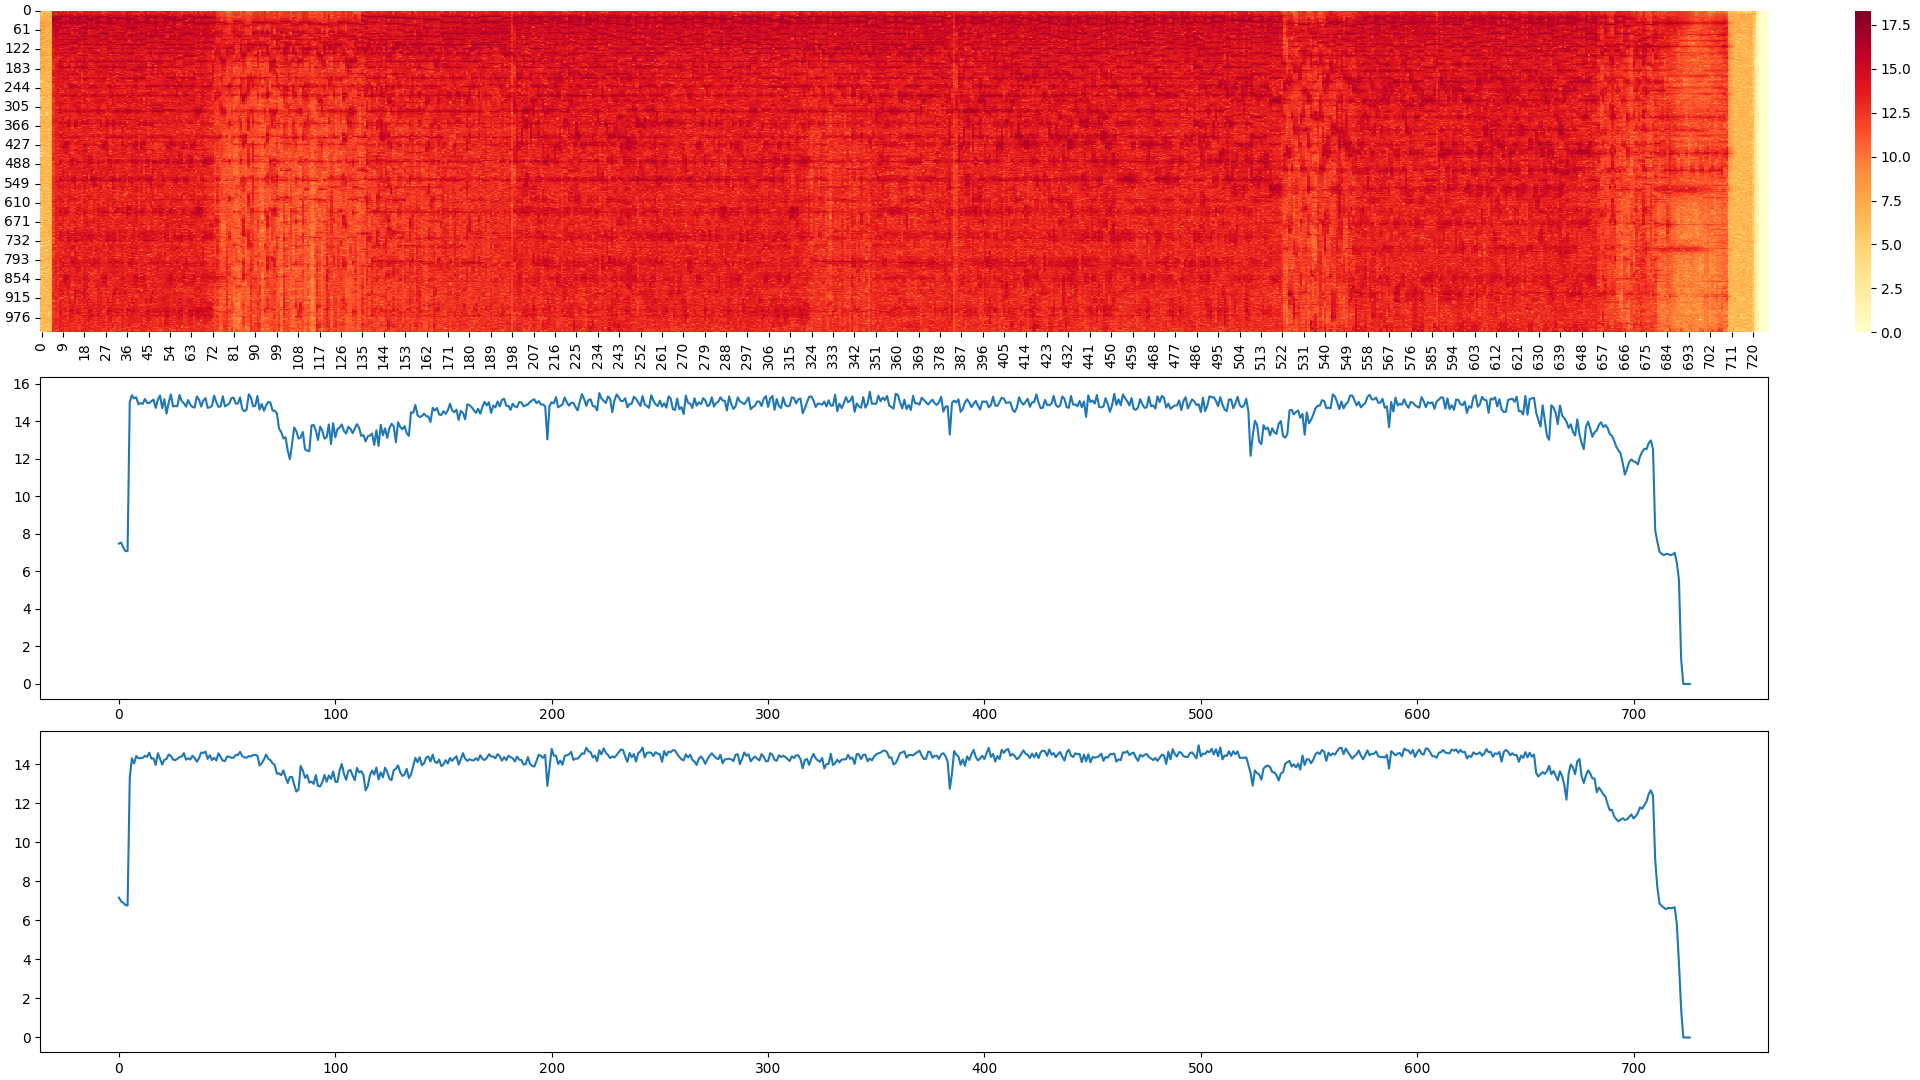
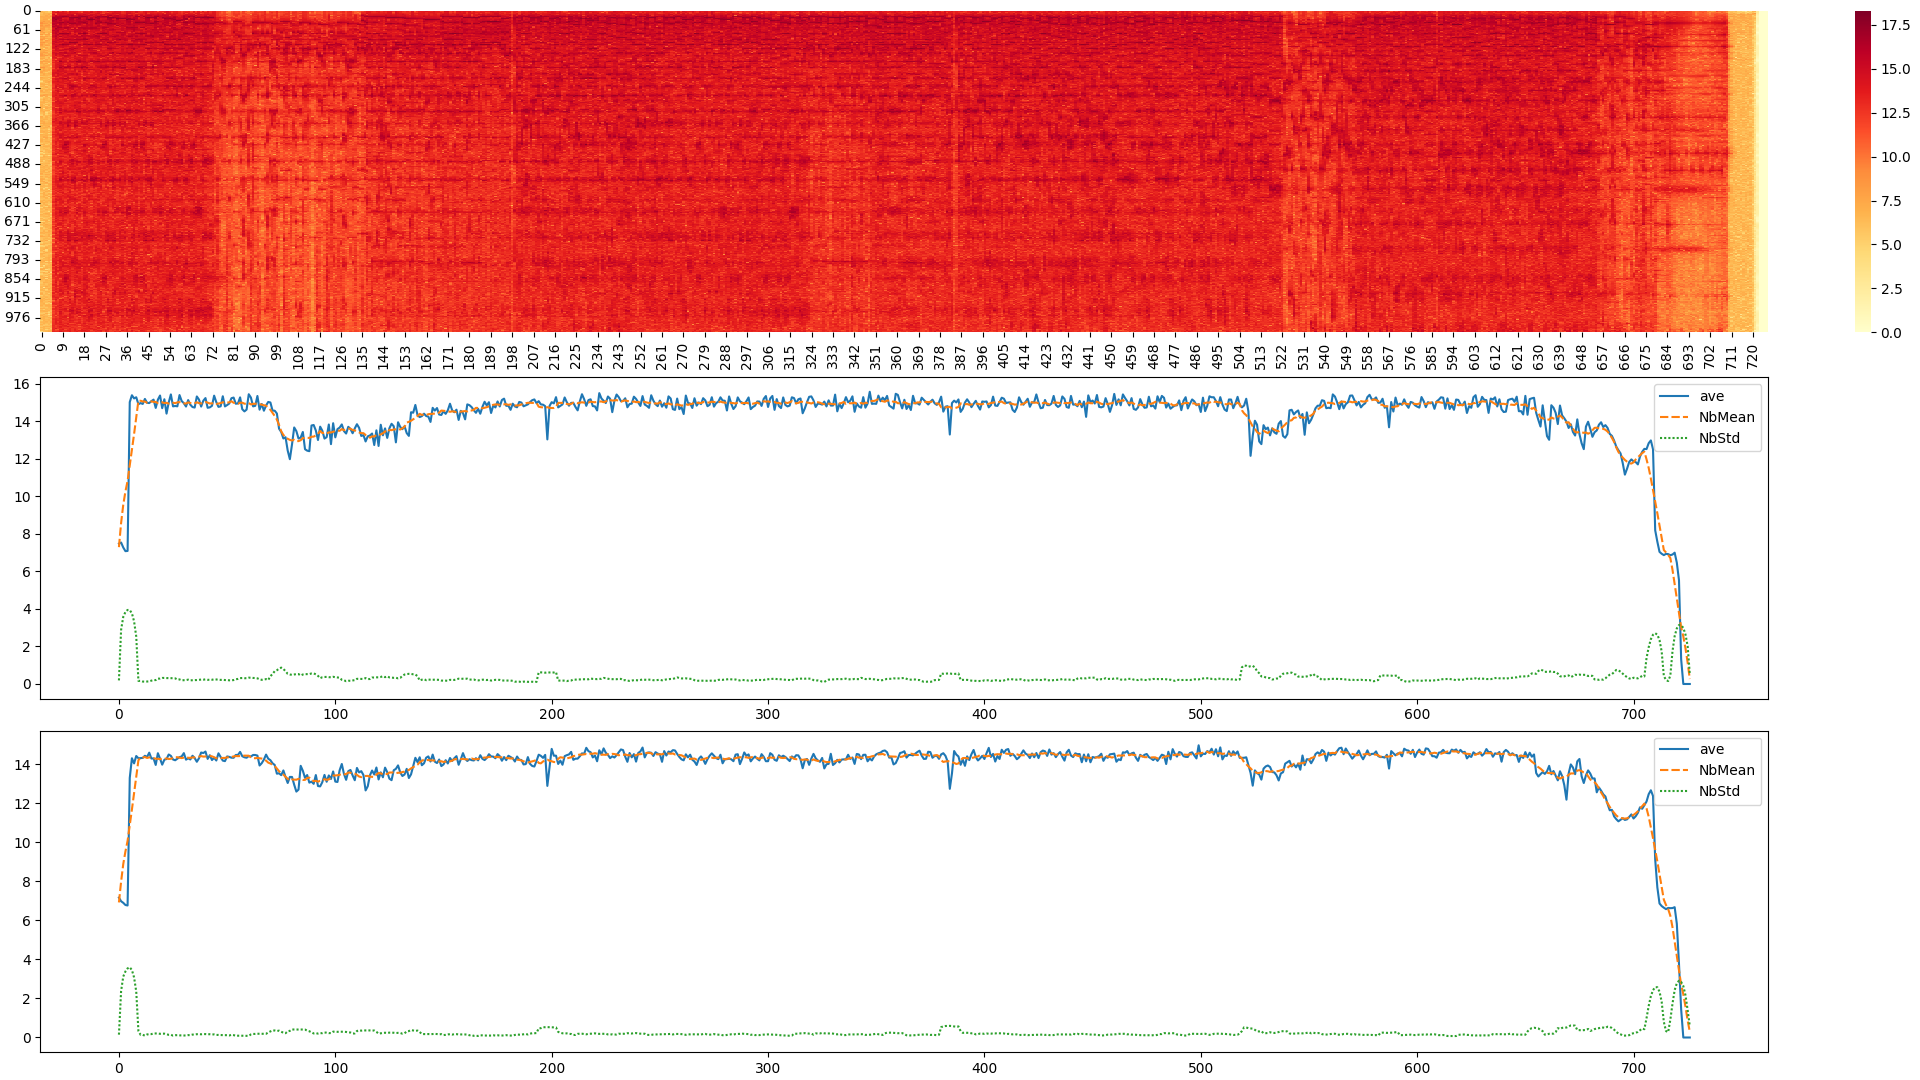
+PCA.py

Changed region(s): [[0.875, 0.6722, 0.9062, 0.7333], [0.875, 0.3667, 0.9062, 0.4278]]

diff --git a/Tools/HeatMap.py b/Tools/HeatMap.py
@@ -7,6 +7,7 @@ if len(sys.argv) != 3:
 
 # import process is very slow
 import numpy as np
+import pandas as pd
 import seaborn as sns
 import matplotlib.pyplot as plt
 
@@ -25,7 +26,8 @@ for line in open(fileName):
 df = np.log(np.array(df) + 1)
 
 # music part
-parts = [0, 73, 146, 292, 584, 1024]
+PARTS = [0, 73, 146, 292, 584, 1024]
+WIDTH = 4 
 
 print(df)
 # set picture size
@@ -45,19 +47,62 @@ sns.heatmap(df.T, cmap="YlOrRd", ax=ax[0])
 # ave = np.array(ave)
 # sns.lineplot(ave, ax=ax[1])
 
-# output the Low Freq ave map
-ave = []
-for i in range(df.shape[0]):
-    ave.append(df[i, 0:73].mean())
-ave = np.array(ave)
-sns.lineplot(ave, ax=ax[1])
+# calculate the mean value of a neighborhood
+def CalculateNeighborhoodMean(arr, width):
+    assert width > 0
+    ave = []
+    for i in range(arr.shape[0]):
+        cnt = 0
+        ans = 0 # sum value of the neighborhood
+        for j in range(-width, width + 1):
+            pos = i + j
+            if 0 <= pos and pos < arr.shape[0]:
+                ans += arr[pos]
+                cnt += 1
+        ave.append(ans / cnt)
+    assert len(ave) == len(arr)
+    return np.array(ave)
 
-# output the Middle Freq ave map
-ave = []
+# calculate std var
+def CalculateNeighborhoodStd(arr, width):
+    assert width > 0
+    std = []
+    for i in range(arr.shape[0]):
+        cnt = 0
+        ave = 0 # sum 
+        var = 0 # sqr sum
+        for j in range(-width, width + 1):
+            pos = i + j
+            if 0 <= pos and pos < arr.shape[0]:
+                ave += arr[pos]
+                var += arr[pos] ** 2
+                cnt += 1
+        std.append((var/cnt - (ave/cnt)**2) ** 0.5)
+    assert len(std) == len(arr)
+    return np.array(std)
+
+# calculate the Low Freq ave map
+aveL = []
 for i in range(df.shape[0]):
-    ave.append(df[i, 73:292].mean())
-ave = np.array(ave)
-sns.lineplot(ave, ax=ax[2])
+    aveL.append(df[i, 0:73].mean())
+aveL = np.array(aveL)
+
+# sns.lineplot(np.r_[aveL, CalculateNeighborhoodStd(aveL, WIDTH), CalculateNeighborhoodStd(aveL, WIDTH)],
+#        ax = ax[1])
+
+data_np = np.c_[aveL, CalculateNeighborhoodMean(aveL, WIDTH), CalculateNeighborhoodStd(aveL, WIDTH)] 
+data_df = pd.DataFrame(data_np, None, ["ave", "NbMean", "NbStd"])
+sns.lineplot(data_df, ax=ax[1])
+
+# calculate the Middle Freq ave map
+aveH = []
+for i in range(df.shape[0]):
+    aveH.append(df[i, 73:292].mean())
+aveH = np.array(aveH)
+
+data_np = np.c_[aveH, CalculateNeighborhoodMean(aveH, WIDTH), CalculateNeighborhoodStd(aveH, WIDTH)] 
+data_df = pd.DataFrame(data_np, None, ["ave", "NbMean", "NbStd"])
+sns.lineplot(data_df, ax=ax[2])
 
 # dump picture into file
 plt.savefig('./Data/TMP/TMP.png')

diff --git a/Tools/PCA.py b/Tools/PCA.py
@@ -1,0 +1,55 @@
+import sys
+
+if len(sys.argv) != 3:
+    sys.stderr.write("[PCA] Usage: python3 PCA.py <file.txt> <linewidth>\n")
+    exit()
+
+# get argv from sys.argv
+filename  = sys.argv[1]
+linewidth = int(sys.argv[2])
+
+# necessary import
+from sklearn.decomposition import PCA
+import numpy as np
+
+# get numpt array from file
+def GetNumpyFromFile(filename, lineWidth):
+    ans = []
+    for line in open(filename):
+        sl = line.strip()
+        if sl != "":
+            tmp = list(map(float, sl.split()))
+            assert len(tmp) == lineWidth
+            ans.append(tmp)
+    return np.array(ans)
+
+# X is the data to do PCA
+X = GetNumpyFromFile(filename, linewidth)
+
+# run pca model on X
+# calculate variance_ratio for all column
+Model_PCA = PCA(n_components = 0.9) #X.shape[1])
+Model_PCA.fit(X)
+
+# output msg like variance_ratio, singular_value
+# print(Model_PCA.n_components_)
+# print(Model_PCA.explained_variance_ratio_)
+# print(Model_PCA.singular_values_)
+
+# output explained_variance_ratio
+# for i in range(len(Model_PCA.explained_variance_ratio_)):
+#     print(Model_PCA.explained_variance_ratio_[i], end=" ")
+# print("")
+
+# newX = Model_PCA.fit_transform(X)
+# print(newX)
+
+sys.stderr.write("[PCA] n_components_ = %d\n" % \
+        Model_PCA.n_components_)
+
+Components = Model_PCA.components_
+for i in range(Components.shape[0]):
+    for j in range(Components.shape[1]):
+        print(Components[i,j], end=" ")
+    print("")
+
